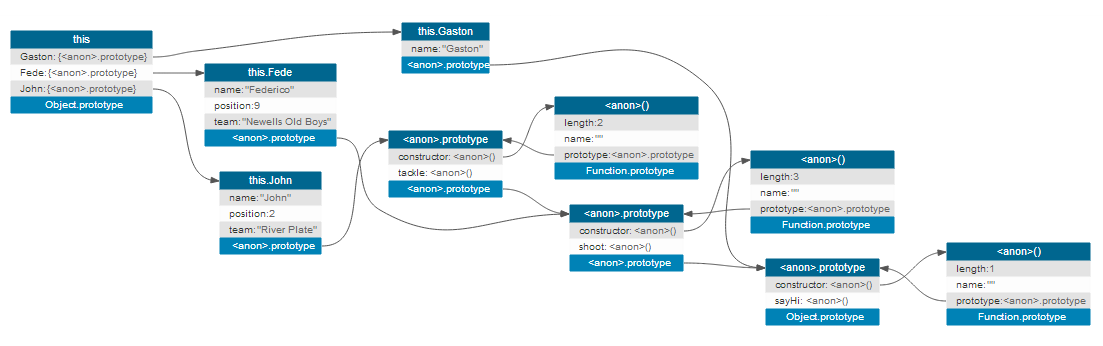
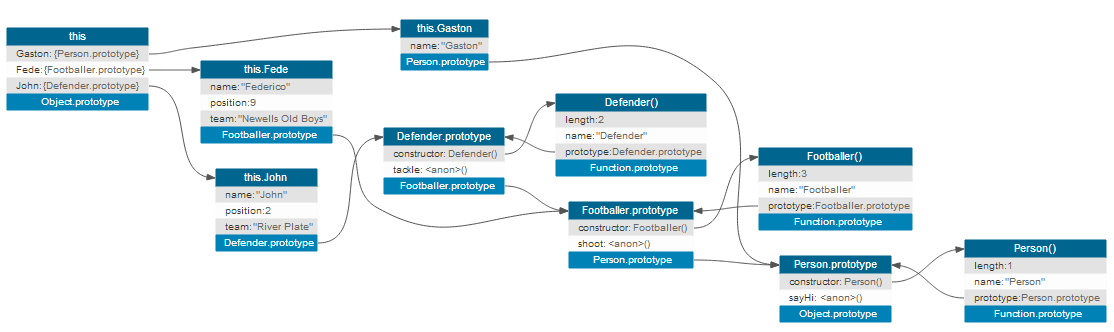
Updated diagrams and README

Changed region(s): [[0.0, 0.0602, 1.0, 0.994], [0.6165, 0.1807, 0.6473, 0.2108], [0.5857, 0.1506, 0.6165, 0.1807]]

diff --git a/method1.js b/method1.js
@@ -20,7 +20,7 @@ This file shows classic inheritance as it can be found in countless websites
     }
 }
 
-var Person = function(name) {
+function Person(name) {
     this.name = name;
 };
 
@@ -28,7 +28,7 @@ Person.prototype.sayHi = function() {
     return "Hey there, " + this.name + "!";
 };
 
-var Footballer = function(name, position, team) {
+function Footballer(name, position, team) {
     Person.call(this, name);
     this.position = position;
     this.team = team;
@@ -41,7 +41,7 @@ Footballer.prototype.shoot = function() {
     return this.name + " attempted a goal AND SCORES!!";
 };
 
-var Defender = function(name, team) {
+function Defender(name, team) {
     Footballer.call(this, name, 2, team);   //  We are a super defensive team, and we know all defenders play in the number 2 position
 };
 

diff --git a/method2.js b/method2.js
@@ -4,8 +4,6 @@ This file also uses classic inheritance, but all methods and properties are (kin
 despite we still reap the benefits of prototypal inheritance in terms of performance and in flexibility: changes made to the constructor
 are reflected in instance objects even if the changes are made after the instantiation of said objects.
 
-It also generates a cleaner diagram since functions are named and not just anonymous
-
 */
 
 

diff --git a/README.md b/README.md
@@ -99,7 +99,7 @@ ObjectPlayground.com is a great website to visualize relationships between JavaS
 
 If you dont want to clone the repository, here are the diagrams of each technique:
 
-* [method1.js](http://i.imgur.com/8MUs54U.png)
+* [method1.js](http://i.imgur.com/Yk1VEPv.png)
 * [method2.js](http://i.imgur.com/hIXwXv5.png)
 * [method3.js](http://i.imgur.com/iHR6fhc.png)
 
@@ -109,7 +109,7 @@ If you want to test for yourself visualize the objects of this repository, follo
 
 2. Copy all the constructors/base objects and the object instantiations. For example, in method1.js you should copy
 
-        var Person = function(name) {
+        function Person(name) {
             this.name = name;
         };
         ....
